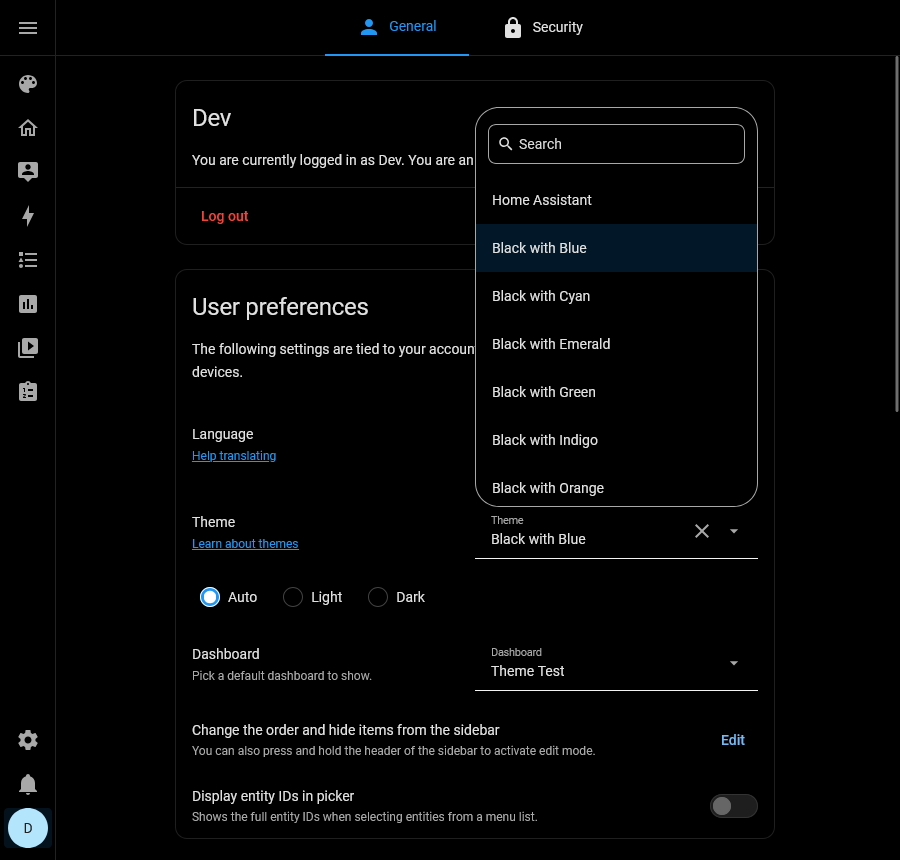
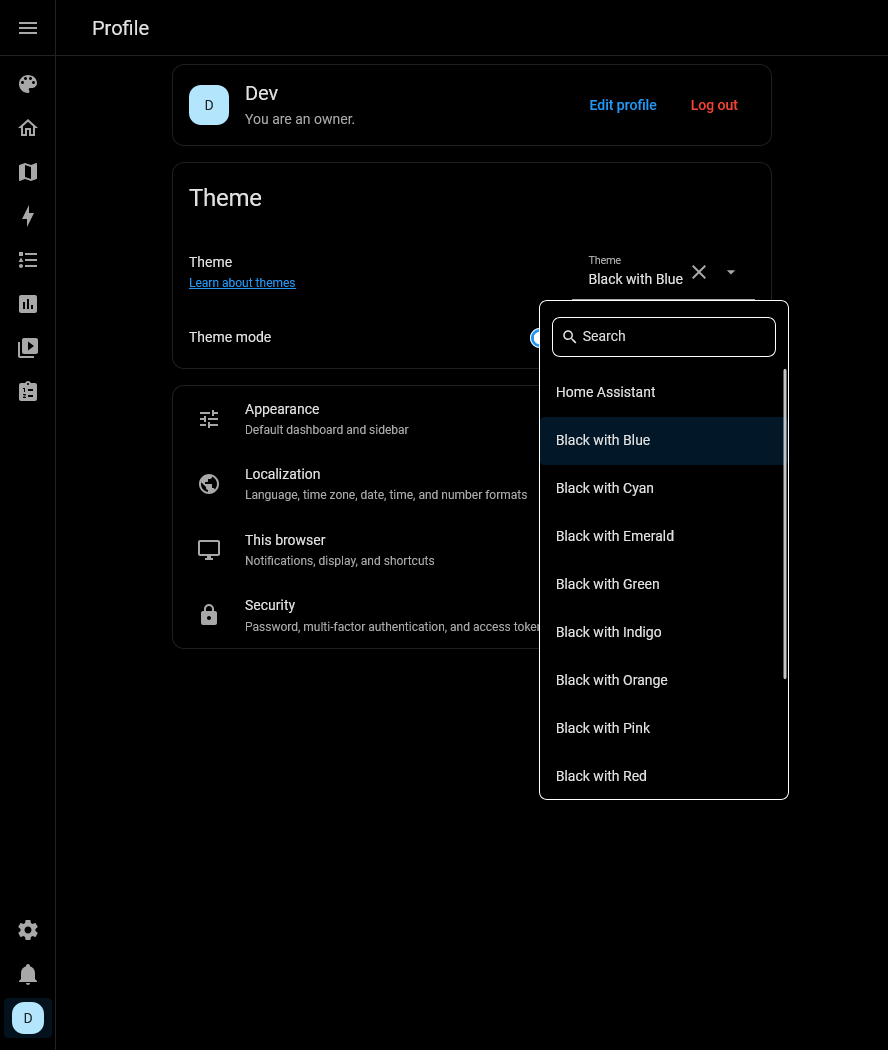
v1.4.2-dev12 Docs, Screenshots & Test Fixture: README Fixes, Profile Picker Screenshots, and Broken-State Checker

diff --git a/docs/changelog_local.md b/docs/changelog_local.md
@@ -17,6 +17,7 @@ All changes to this project will be documented in this file. This is the detaile
 ---
 
 - [Internal Detailed Changelog: Very Dark Black Home Assistant Theme](#internal-detailed-changelog-very-dark-black-home-assistant-theme)
+  - [\[1.4.2-dev12\] - 2026-11-14 - Docs, Screenshots & Test Fixture: README Fixes, Profile Picker Screenshots, and Broken-State Checker](#142-dev12---2026-11-14---docs-screenshots--test-fixture-readme-fixes-profile-picker-screenshots-and-broken-state-checker)
   - [\[1.4.2-dev11\] - 2026-11-14 - Theme & Test Dashboard: Quiet Status Fills and Broken View Added](#142-dev11---2026-11-14---theme--test-dashboard-quiet-status-fills-and-broken-view-added)
   - [\[1.4.2-dev10\] - 2026-11-14 - Docs \& Changelog: Marketplace Migration and Format Alignment](#142-dev10---2026-11-14---docs--changelog-marketplace-migration-and-format-alignment)
   - [\[1.4.2-dev9\] - 2026-11-13 - Docs \& Notes: Capabilities Dossier Added and .notes Reorganized](#142-dev9---2026-11-13---docs--notes-capabilities-dossier-added-and-notes-reorganized)
@@ -84,6 +85,33 @@ All changes to this project will be documented in this file. This is the detaile
   - [\[1.2.1\] - 2026-01-16 - TEST Visibility Marker](#121---2026-01-16---test-visibility-marker)
   - [\[1.1.1\] - 2025-12-04 - Green, Red, Fuchsia and Orange Variants](#111---2025-12-04---green-red-fuchsia-and-orange-variants)
   - [\[1.0.1\] - 2025-11-18 - Initial Release, Cyan Accent](#101---2025-11-18---initial-release-cyan-accent)
+
+---
+
+## [1.4.2-dev12] - 2026-11-14 - Docs, Screenshots & Test Fixture: README Fixes, Profile Picker Screenshots, and Broken-State Checker
+
+### Summary
+
+Added the disabled `theme_test_broken_checker` automation to `.ha/mock_package.yaml` and linked it from the `Broken` view in `.ha/ui-theme-test.yaml`, applied `readme_review` and `readme_automation_validate` fixes to `README.md`, and updated `.github/images/` theme-selection screenshots to reflect the redesigned Home Assistant Profile page and theme picker.
+
+### Added
+
+- **Broken-state checker automation (`.ha/mock_package.yaml`)**: Added `automation` (`id: theme_test_broken_checker`, `alias: "Theme Test — Broken State Checker"`, `initial_state: false`) with schema-valid triggers, conditions, and actions targeting non-existent entities, services (`non_existent.broken_service`), areas, and zones to exercise `<ha-picker-field unknown>` and warning/danger rows in the Visual Automation Editor.
+- **Dashboard link (`.ha/ui-theme-test.yaml`)**: Linked `[Broken State Checker Automation](/config/automation/edit/theme_test_broken_checker)` inside the `Broken` view's manual checklist card.
+
+### Changed
+
+- **Theme-picker screenshots (`.github/images/`)**: Updated `vdbt_preview_theme_select_blue_1.png`, `vdbt_preview_theme_select_green.png`, and `vdbt_preview_theme_select_violet_2.png` to show the new Home Assistant theme picker on the redesigned Profile page (previous captures archived under `*_old*.png` and duplicate `.png.png` extension removed).
+
+### Documentation
+
+- **`README.md`**: Fixed mid-sentence capitalization (`click **Download**`), aligned US spelling (`initializing`), updated phrasing (`separate from`, `whenever the theme changes`), and added `from: "off"` / `from: "on"` transient-state guards to the `Visual Alert - Theme` example triggers.
+- **`AGENTS.md`**: Replaced the bare `docker exec` tool examples and broad §2 exemption in `## Commands` with an explicit `python3 .workbench/run_task.py` instruction referencing `agent_conventions.md` §1–2 and clarifying that only the Python-specific commands in §2 do not apply.
+
+### Verified
+
+- **Test fixture & HA config**: `yamllint`, `npx prettier --check`, `hass --script check_config`, and `automation.reload` passed with `automation.theme_test_broken_state_checker` loaded as `off`.
+- **README automations (`readme_automation_validate`, `Full` mode)**: All 3 README automations (`Set (Default) Theme at Startup`, `Startup Indicator - Theme`, `Visual Alert - Theme`) created via HAB API, reloaded, restarted cleanly (`20s`), and passed `hab repairs list`, read-back fidelity, and `automation.trigger` simulation with zero errors.
 
 ---
 
@@ -1082,6 +1110,6 @@ Entry structure — headers, titles, category headings and the split between thi
 
 ## Document Audit Status
 
-- **Headers Checked (`CF-101`)**: `1.4.2-dev11..1.0.1` (Complete)
-- **Bullets Checked (`CF-202`)**: `1.4.2-dev11..1.0.1` (Complete)
-- **Lead-In Summaries (`CF-201`)**: Present on `1.4.2-dev11..1.4.2-dev6`, `1.4.1`, `1.4.0`, `1.4.0-dev9`, `1.3.8-dev9..1.3.8-dev1`, `1.3.7`, `1.3.7-dev9..1.3.7-dev7`, `1.3.7-dev4`, `1.3.6`, `1.3.3-dev13`, and `1.3.3-dev12`; earlier entries (`1.4.2-dev5..1.0.1` outside that set) retain historical pre-`CF-201` structure.
+- **Headers Checked (`CF-101`)**: `1.4.2-dev12..1.0.1` (Complete)
+- **Bullets Checked (`CF-202`)**: `1.4.2-dev12..1.0.1` (Complete)
+- **Lead-In Summaries (`CF-201`)**: Present on `1.4.2-dev12..1.4.2-dev6`, `1.4.1`, `1.4.0`, `1.4.0-dev9`, `1.3.8-dev9..1.3.8-dev1`, `1.3.7`, `1.3.7-dev9..1.3.7-dev7`, `1.3.7-dev4`, `1.3.6`, `1.3.3-dev13`, and `1.3.3-dev12`; earlier entries (`1.4.2-dev5..1.0.1` outside that set) retain historical pre-`CF-201` structure.

diff --git a/README.md b/README.md
@@ -139,7 +139,7 @@ frontend:
 Use the **shortcut badge** above, then click **Download** — or just …
 
 1. Open **Settings > Marketplace** in Home Assistant (or **HACS** on HA < 2026.11) and search for **Very Dark Black HA Theme**
-2. Click into _Very Dark Black HA Theme_ and then Click **Download** (bottom right)
+2. Click into _Very Dark Black HA Theme_ and then click **Download** (bottom right)
 3. Run the `frontend.reload_themes` action (Restart Home Assistant if `configuration.yaml` changes were made).
 
 ### 💾 Manual Installation
@@ -258,7 +258,7 @@ mode: single
 ```yaml
 alias: Startup Indicator - Theme
 description: |-
-  Sets Orange at startup to signal Home Assistant is initialising.
+  Sets Orange at startup to signal Home Assistant is initializing.
   Switches back to your preferred theme after 2 minutes.
 triggers:
   - trigger: homeassistant
@@ -298,10 +298,12 @@ triggers:
   - trigger: state
     entity_id: binary_sensor.your_alert_sensor
     to: "on"
+    from: "off"
     id: alert_on
   - trigger: state
     entity_id: binary_sensor.your_alert_sensor
     to: "off"
+    from: "on"
     id: alert_off
 conditions: []
 actions:
@@ -364,7 +366,7 @@ For technical details on the YAML standards, logic, and various display element 
 &nbsp; &nbsp; ➕ &nbsp; &nbsp; Click to Expand for Details:
 </summary><br>
 
-- Items like custom dashboards (dashboard views), cards and card elements can have specific themes applied, separate to the system theme.
+- Items like custom dashboards (dashboard views), cards and card elements can have specific themes applied, separate from the system theme.
 - To check or modify this for views or sections, see [Apply Theme](#-apply-theme) above.
 - If one element has a different (unexpected) theme, it may be a theme or color setting inside the individual card:
   - To check use the pencil icon (top right), then click into the specific card and look for theme and/or color options in the settings.
@@ -485,7 +487,7 @@ This is a **personal project**. Support and updates are provided on a **"best-ef
 
 ### 📖 Documentation Accuracy
 
-- This README is updated whenever the integration changes, and is intended to describe the current release accurately.
+- This README is updated whenever the theme changes, and is intended to describe the current release accurately.
 - Two things can put it out of step: a passage this document missed during a revision, or a Home Assistant screen or setting that has been renamed or moved since it was written.
 - If you find either, please [open an issue](https://github.com/PlayFaster/very-dark-black-ha-theme/issues). It will be corrected.
 

diff --git a/AGENTS.md b/AGENTS.md
@@ -69,18 +69,7 @@ Run via **Terminal → Run Task** inside the devcontainer:
 
 Python-specific tasks (`Ruff`, `Mypy`, `Pytest`, `Pre-commit`) are present in the shared task list but skip automatically for this project via `project.category = theme` in `.vscode/settings.json`. A skipped task writes its own report and shows as a neutral `–` in the summary, so a skip is distinguishable from a task that did not run.
 
-Tasks can also be run headlessly by label; see `agent_conventions.md` §2 for how and when.
-
-### Running tools directly inside the devcontainer
-
-Agents run on the Windows host and reach the container via `docker exec` — the full workflow, the `.devcontainer/.env` identity lookup, and the Git Bash path-mangling trap are in shared conventions §1 (`.shared/dev_std/agent_conventions.md`). Theme-flavoured examples:
-
-```bash
-docker exec -w /workspaces/<PROJECT_DIR> <CONTAINER_NAME> bash -c "codespell ."
-docker exec -w /workspaces/<PROJECT_DIR> <CONTAINER_NAME> bash -c "yamllint -c .validate/.yamllint themes/"
-```
-
-Note that §2 of that file (pytest, ruff, mypy, pre-commit) does **not** apply here — this project has no Python source and no tests.
+Tasks are run headlessly inside the devcontainer via `docker exec` using `python3 .workbench/run_task.py "Fix All Fast"` (or `"Validate All"` / `"Validate Fast (Docs & Style)"`), citing the `.reports/` output per `agent_conventions.md` §1–2 (`.shared/dev_std/agent_conventions.md`). Only the Python-specific commands in §2 (`pytest`, `ruff`, `mypy`, `pre-commit`) do not apply here; the §2 `run_task.py` workflow applies in full.
 
 ## Theme File Architecture (2-Section YAML)
 
